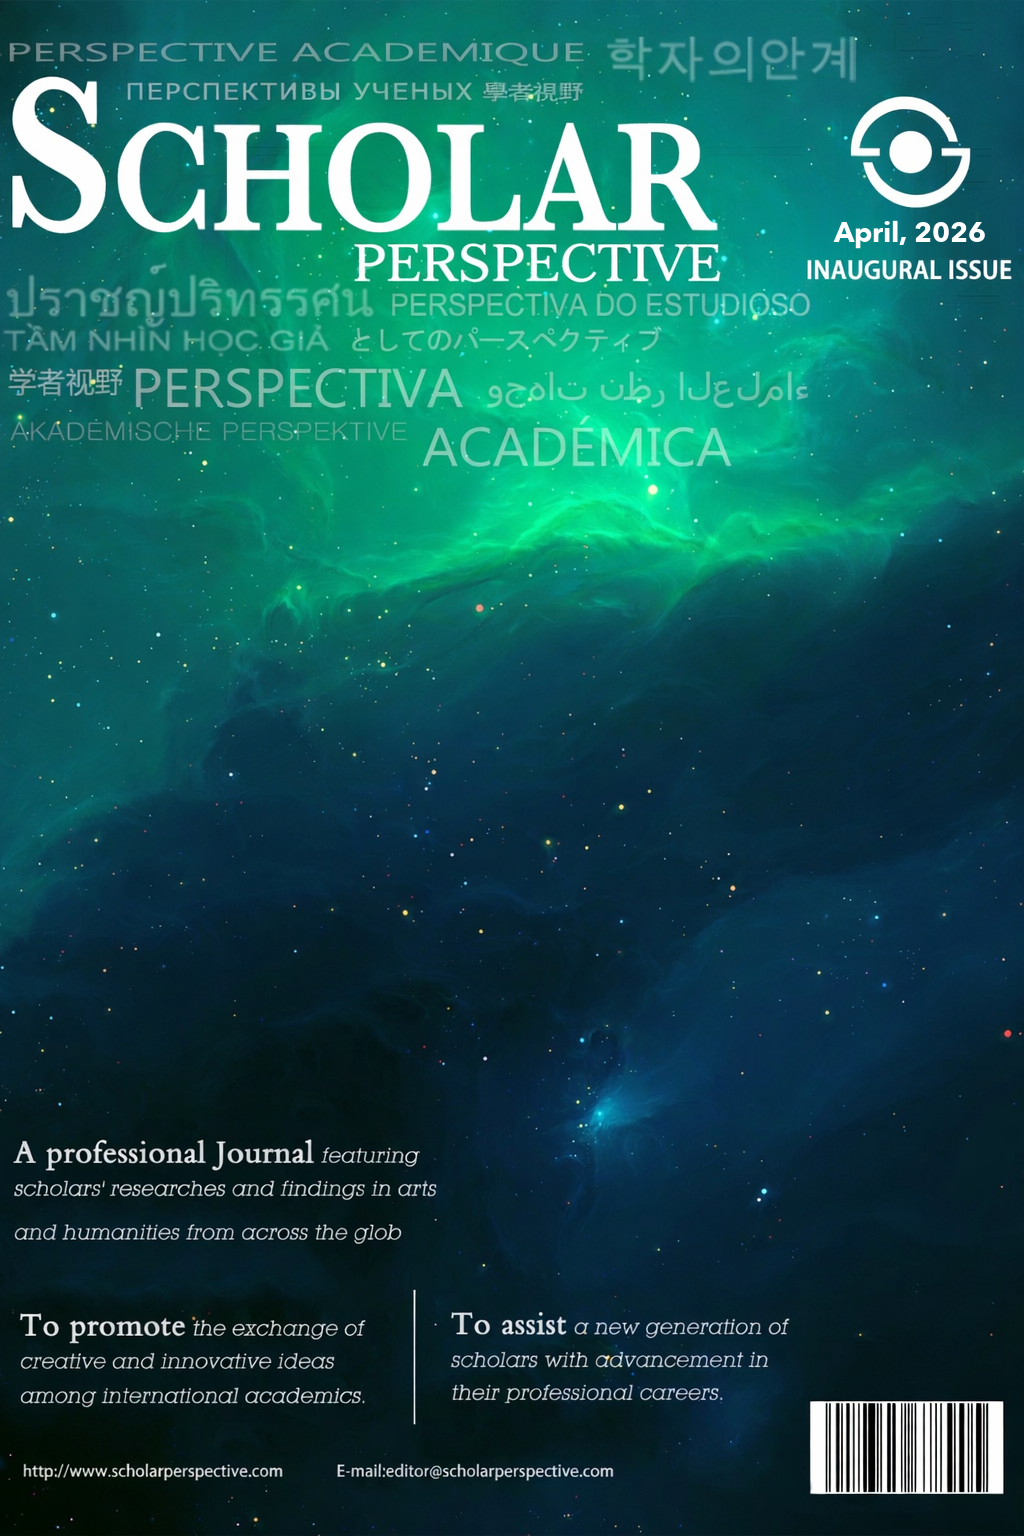
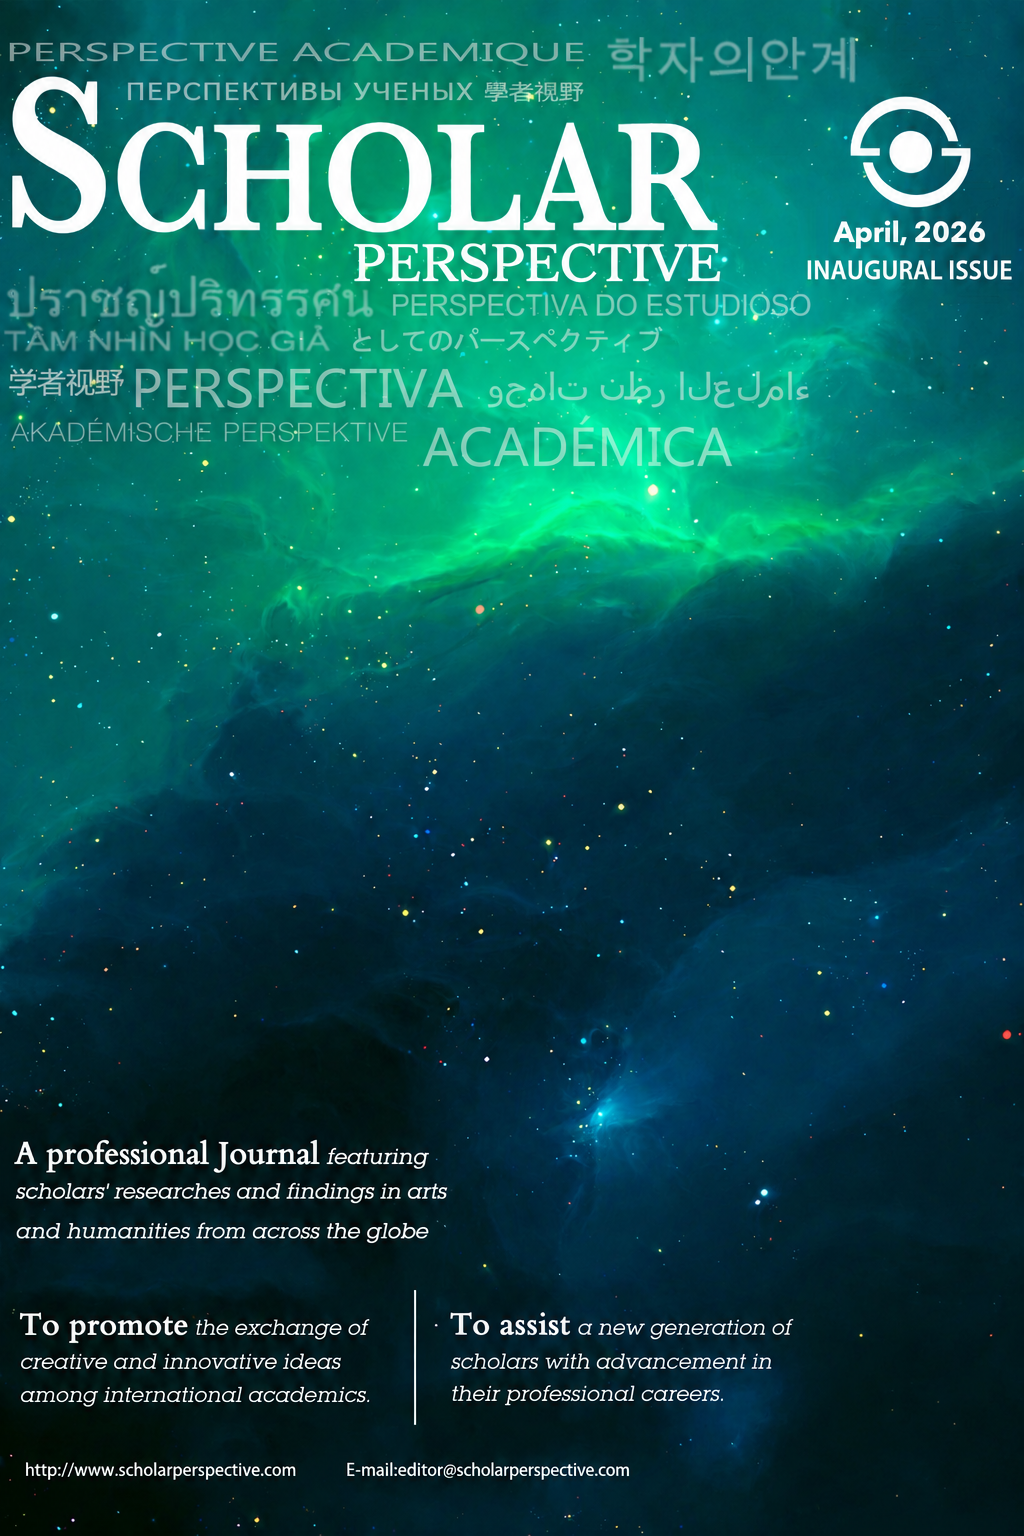
Lock journal title, add ethics policy draft, fix cover typo
- BUSINESS_PLAN: mark title "Scholar Perspective" as locked; add Google
  Search Console steps, author license-consent section (6e), and
  renumbered action checklist
- Add ETHICS_POLICY_DRAFT.md (page copy pending owner review)
- UI_REDESIGN_PLAN: use consistent "Scholar Perspective" spelling
- Cover: fix "glob" -> "globe" typo

diff --git a/BUSINESS_PLAN.md b/BUSINESS_PLAN.md
@@ -36,7 +36,7 @@ These four things are interlinked: you generally need the ISSN and the editorial
 
 **Action items:**
 - [ ] Read current U.S. ISSN Center application requirements in full (they update wording periodically)
-- [ ] Decide the exact, final title wording before applying (title changes require a NEW ISSN, so lock this in first)
+- [x] Decide the exact, final title wording before applying — **"Scholar Perspective"** (confirmed 2026-10-27)
 - [ ] Apply for online ISSN once issue #1 is stable/public
 - [ ] Once granted, add ISSN to site footer, PDF cover/masthead, and `articles.csv`/metadata
 
@@ -72,6 +72,14 @@ Different systems, different requirements, roughly ordered from "easiest / autom
   - Site isn't blocked by `robots.txt` for the article pages
   - There's a clear, crawlable path to every article (sitemap.xml helps)
 - **Open question:** Does `/publications/view/<filepath>` (the PDF.js canvas viewer) expose a real, crawlable link to the underlying PDF, or does everything render client-side in a way Google can't see? Worth checking — this is a website/metadata concern to flag for later, not something to fix today.
+
+**Concrete steps to actually get found on Google/Google Scholar:**
+- [ ] Set up a free **Google Search Console** account (search.google.com/search-console), verify site ownership, and submit a sitemap — this actively tells Google where every article page is, instead of passively waiting for a crawl
+- [ ] Confirm article PDFs contain real, selectable text (not scanned images) — Google can't read text it can't select
+- [ ] Confirm the article pages/PDFs aren't blocked in `robots.txt`
+- [ ] Wait a few weeks after publishing, then check indexing by searching `site:scholarperspective.com` (and the exact article title in quotes) on both regular Google and Google Scholar
+- [ ] Optional accelerator: if any contributing professor is willing to link to their article from their own faculty/university page, that outside link helps Google discover and trust the page faster
+- Google Scholar itself has no "submit my article" button — it only discovers content by crawling, so the above steps (making the site easy to crawl) are the only real lever available
 
 ### 4b. DOAJ — Directory of Open Access Journals (free application, real vetting)
 - The most respected free index for open-access scholarly journals. (See Section 3 above for how this differs from ISSN.)
@@ -215,12 +223,33 @@ This is its own document from the peer-review policy — DOAJ (and general good 
 - Given the humanities/liberal-arts focus (vs. empirical human-subjects research), is IRB/ethical-approval language even relevant, or should the policy stay scoped to originality/authorship/plagiarism only?
 
 **Action items:**
+- [ ] Review the draft page content in `ETHICS_POLICY_DRAFT.md` (owner review in progress) — check wording, fill in the placeholder contact email, and finalize the plagiarism-screening sentence once a tool approach is picked
+- [ ] Deploy the finalized ethics/plagiarism policy as a live page on the site once review is complete
 - [ ] Draft and publish an Editorial Policies page (peer review + ethics/plagiarism policy + author guidelines, can be one combined page)
 - [ ] Decide on a plagiarism-checking approach (manual review vs. a free tool vs. a paid tool) and state it in the policy
 - [ ] State the journal's position on COPE core practices (adopt as a reference standard)
 - [ ] Set up the review log (spreadsheet) and start using it for Issue 2 submissions
 - [ ] Collect retroactive written review confirmations from Issue 1 reviewers
 - [ ] Decide and document the conflict-of-interest rule for board-member authors
+
+---
+
+## 6e. Author Consent for the Open License (important given how manuscripts are actually collected)
+
+**Context:** Articles are not collected through an open, formal submission system — they come from the owner personally requesting manuscripts from individual professors/scholars (private outreach). This matters for licensing specifically, because it changes who needs to agree to what.
+
+**Why this is a real gap, not just paperwork:** Copyright in each article belongs to the author (the professor) by default, not to Scholar Perspective. Choosing a license like CC BY is not something the journal can decide unilaterally — it means *the author* is agreeing to let the public freely copy, redistribute, and reuse their work (with credit). If a license like CC BY is stated on the site/PDF but the author never actually agreed to that, the journal would be making a legal claim about someone else's work that was never authorized.
+
+**What this means in practice:**
+- Going forward (Issue 2 onward), when personally requesting a manuscript from a professor, include a short, plain-language line confirming the license, e.g.: *"This journal is open access; once published, your article will be made freely available under a [CC BY / CC BY-NC] license, meaning readers may [redistribute / translate / reuse with credit]. Please confirm you agree to this."* A simple email reply of agreement is enough — no formal contract needed at this scale.
+- For Issue 1 (already published without this being discussed), the same retroactive approach used for peer-review evidence applies here: reach out to each Issue 1 author now with a short confirmation request, e.g.: *"We'd like to formally offer your published article under a [CC BY] open license going forward — please confirm you're comfortable with this."*
+- If a particular author declines the open license, that specific article can simply stay "All Rights Reserved" — the license does not have to be uniform across every article, as long as each one accurately reflects what its author actually agreed to.
+
+**Action items:**
+- [ ] Draft a short, reusable "license consent" sentence to include in future manuscript requests to professors (Issue 2 onward)
+- [ ] Retroactively contact Issue 1 authors individually to confirm (or decline) the chosen open license for their article
+- [ ] For any author who doesn't consent, mark that specific article "All Rights Reserved" instead of the open license — track this per-article, not journal-wide
+- [ ] Keep a simple record of each author's consent (an email reply is sufficient) alongside the peer-review log from Section 6b
 
 ---
 
@@ -235,7 +264,7 @@ This is its own document from the peer-review policy — DOAJ (and general good 
 
 ## 8. Open Decisions Summary (things only the owner can decide)
 
-1. Final, locked title wording (blocks ISSN application)
+1. ~~Final, locked title wording~~ — **Resolved (2026-10-27):** the title is exactly **"Scholar Perspective"** (singular, no subtitle). Translated names on the cover are decorative, not parallel titles.
 2. Peer-review process — real, lightweight, or none for now (blocks DOAJ + credibility)
 3. Content license (CC BY? All rights reserved? blocks DOAJ + author expectations)
 4. **Copy-protection vs. open license conflict** — the PDF viewer's copy-protection (right-click disabled, Ctrl/Cmd+C/A/X/S/P blocked) was built under an "All Rights Reserved" mindset. A CC license (BY, BY-NC, etc.) exists specifically to grant copying/reuse rights, and CC's own terms say the licensor shouldn't apply technological measures that restrict those rights — so the two can't fully coexist as currently built. **Suggestion:** if an open CC license is adopted for DOAJ purposes, relax the in-viewer copy-blocking (at minimum allow text selection/copy) rather than keep both; if keeping the copy-protection matters more, stay with "All Rights Reserved" and treat DOAJ as not achievable under the current design. A middle option is offering a clearly unrestricted "Download PDF" button alongside a still-protected in-browser view — closer to DOAJ's "immediate free full-text access" spirit, though not a perfectly clean resolution of the license clause.
@@ -244,6 +273,7 @@ This is its own document from the peer-review policy — DOAJ (and general good 
 7. Legal entity type (nonprofit vs. LLC vs. sole prop)
 8. Budget/timeline appetite for your own paid steps (CrossRef membership, trademark, legal entity filing) — purely internal, not disclosed to or evaluated by DOAJ
 9. ~~Whether mainland China discoverability is a near-term or someday goal~~ — **Resolved:** someday/future goal, not near-term. Long-term aim is to be searchable through 论文网-style Chinese academic databases (CNKI, Wanfang, VIP/CQVIP, Baidu Scholar), pursued after ISSN/DOAJ/CrossRef are in place.
+10. **Author consent for the open license** — since manuscripts come from personal requests to professors rather than a formal submission system, each author needs to actually agree to the chosen open license before it's stated on their article (see Section 6e). This isn't optional paperwork — copyright belongs to the author by default, so the journal can't unilaterally declare an open license on their behalf.
 
 ---
 
@@ -265,19 +295,25 @@ This is its own document from the peer-review policy — DOAJ (and general good 
 A single running list, pulled from every section above, so progress on "becoming a recognized journal" can be tracked in one place. Check items off as they're done; add new ones as new questions come up.
 
 **Now (before Issue 2 goes out):**
-- [ ] Lock final title wording, exactly as it will appear everywhere
+- [x] Lock final title wording — **"Scholar Perspective"** (confirmed 2026-10-27)
 - [ ] Decide the peer-review model (who reviews, conflict-of-interest rule for board-author submissions)
 - [ ] Decide the content license (e.g., CC BY, CC BY-NC, all rights reserved)
 - [ ] Decide the plagiarism-checking approach (manual / free tool / paid tool)
 - [ ] Decide the author-facing fee model (no fees vs. APC + waiver policy) — needed for DOAJ's business-model disclosure
+- [ ] Owner review of `ETHICS_POLICY_DRAFT.md` (in progress) — finalize wording, fill in contact email placeholder
+- [ ] Deploy the finalized ethics/plagiarism policy page to the live site
 - [ ] Draft and publish an Editorial Policies page (peer review + ethics/plagiarism policy + author guidelines)
 - [ ] Set up the review log (spreadsheet) and start using it for Issue 2 submissions
 - [ ] Collect retroactive written review confirmations from Issue 1 reviewers
+- [ ] **Draft a "license consent" sentence for future manuscript requests** — since articles come from personally asking professors for their work, each one needs to actually agree to the open license before it can be stated on their article (copyright is theirs, not the journal's)
+- [ ] **Retroactively confirm license consent from Issue 1 authors** — contact each Issue 1 author to confirm (or decline) the chosen open license for their specific article; any who decline stay "All Rights Reserved" for that article only
 
 **Near-term (around/after Issue 2):**
 - [ ] Apply for the online ISSN (referencing Issue 1 as the published-issue evidence)
 - [ ] Once granted, add the ISSN to site footer, PDF cover/masthead, and `articles.csv` metadata
 - [ ] State the chosen license on every article page/PDF going forward
+- [ ] **Set up Google Search Console and submit a sitemap** — actively tells Google where article pages are, rather than waiting passively for a crawl
+- [ ] Confirm PDFs have real selectable text (not scanned images) so Google/Scholar can actually read them
 - [ ] Verify Google Scholar is actually indexing Issue 1 (`site:scholarperspective.com` search after a few weeks)
 - [ ] Check whether the PDF.js viewer route exposes a crawlable PDF link for search engines (flag for the website side of things)
 
@@ -300,26 +336,32 @@ A single running list, pulled from every section above, so progress on "becoming
 
 Same items as Section 10, but flattened into a single suggested sequence rather than grouped by timeframe — pick them off in order.
 
-- [ ] 1. Lock the final title wording, exactly as it will appear everywhere
+- [x] 1. Lock the final title wording — **"Scholar Perspective"** (confirmed 2026-10-27)
 - [ ] 2. Decide the content license (e.g., CC BY, CC BY-NC, all rights reserved)
 - [ ] 3. Decide the peer-review model (who reviews, conflict-of-interest rule for board-author submissions)
 - [ ] 4. Decide the plagiarism-checking approach (manual / free tool / paid tool)
 - [ ] 5. Decide the author-facing fee model (no fees vs. APC + waiver policy) — required DOAJ business-model disclosure
-- [ ] 6. Draft and publish an Editorial Policies page (peer review + ethics/plagiarism policy + author guidelines)
-- [ ] 7. Set up the review log (spreadsheet) and start using it for Issue 2 submissions
-- [ ] 8. Collect retroactive written review confirmations from Issue 1 reviewers
-- [ ] 9. Apply for the online ISSN (referencing Issue 1 as the published-issue evidence)
-- [ ] 10. Once granted, add the ISSN to site footer, PDF cover/masthead, and `articles.csv` metadata
-- [ ] 11. State the chosen license on every article page/PDF going forward
-- [ ] 12. Verify Google Scholar is actually indexing Issue 1 (`site:scholarperspective.com` search after a few weeks)
-- [ ] 13. Check whether the PDF.js viewer route exposes a crawlable PDF link for search engines
-- [ ] 14. Keep publishing until ~5 articles total are live
-- [ ] 15. Apply to DOAJ
-- [ ] 16. Apply to BASE / CORE
-- [ ] 17. Evaluate CrossRef DOI membership
-- [ ] 18. Decide legal entity type (nonprofit vs. LLC vs. sole proprietorship)
-- [ ] 19. Decide on trademark registration for "Scholar Perspective"
-- [ ] 20. Decide on copyright registration approach
-- [ ] 21. Pursue WorldCat/OCLC cataloging
-- [ ] 22. Reach out to EBSCOhost / ProQuest / JSTOR
-- [ ] 23. (Long-term, not near-term) Pursue 论文网-style Chinese database searchability — CNKI / Wanfang Data / VIP/CQVIP / Baidu Scholar
+- [ ] 6. Owner review of `ETHICS_POLICY_DRAFT.md` (in progress) — finalize wording, fill in contact email placeholder
+- [ ] 7. Deploy the finalized ethics/plagiarism policy page to the live site
+- [ ] 8. Draft and publish an Editorial Policies page (peer review + ethics/plagiarism policy + author guidelines)
+- [ ] 9. Set up the review log (spreadsheet) and start using it for Issue 2 submissions
+- [ ] 10. Collect retroactive written review confirmations from Issue 1 reviewers
+- [ ] 11. Draft a "license consent" sentence for future manuscript requests to professors (each author must agree to the open license — it's their copyright, not the journal's)
+- [ ] 12. Retroactively confirm license consent from each Issue 1 author (any who decline stay "All Rights Reserved" for that article only)
+- [ ] 13. Apply for the online ISSN (referencing Issue 1 as the published-issue evidence)
+- [ ] 14. Once granted, add the ISSN to site footer, PDF cover/masthead, and `articles.csv` metadata
+- [ ] 15. State the chosen license on every article page/PDF going forward
+- [ ] 16. Set up Google Search Console and submit a sitemap (actively signals Google where article pages are)
+- [ ] 17. Confirm PDFs have real selectable text (not scanned images) so crawlers can read them
+- [ ] 18. Verify Google Scholar is actually indexing Issue 1 (`site:scholarperspective.com` search after a few weeks)
+- [ ] 19. Check whether the PDF.js viewer route exposes a crawlable PDF link for search engines
+- [ ] 20. Keep publishing until ~5 articles total are live
+- [ ] 21. Apply to DOAJ
+- [ ] 22. Apply to BASE / CORE
+- [ ] 23. Evaluate CrossRef DOI membership
+- [ ] 24. Decide legal entity type (nonprofit vs. LLC vs. sole proprietorship)
+- [ ] 25. Decide on trademark registration for "Scholar Perspective"
+- [ ] 26. Decide on copyright registration approach
+- [ ] 27. Pursue WorldCat/OCLC cataloging
+- [ ] 28. Reach out to EBSCOhost / ProQuest / JSTOR
+- [ ] 29. (Long-term, not near-term) Pursue 论文网-style Chinese database searchability — CNKI / Wanfang Data / VIP/CQVIP / Baidu Scholar

diff --git a/ETHICS_POLICY_DRAFT.md b/ETHICS_POLICY_DRAFT.md
@@ -1,0 +1,47 @@
+# Draft Page Content — Academic Integrity & Publication Ethics
+
+This is a content draft for a new public page on the site (working title: "Academic Integrity & Publication Ethics" or "Ethics & Plagiarism Policy"). It's plain text/copy, ready to drop into a template later — nothing here changes the site yet. Related planning context lives in `BUSINESS_PLAN.md`, Section 6d.
+
+---
+
+## Page Copy
+
+### Academic Integrity & Publication Ethics
+
+Scholar Perspective is committed to upholding the highest standards of academic integrity and publication ethics. This page outlines the principles all authors, reviewers, and editors are expected to follow.
+
+**Originality**
+
+All submissions must represent the author's own original work. Manuscripts that have been previously published, or that are under simultaneous consideration elsewhere, will not be accepted. Authors are responsible for ensuring that all sources, data, and ideas drawn from other works are properly cited and attributed.
+
+**Plagiarism**
+
+Plagiarism in any form — including the unattributed use of another author's words, ideas, or data — is not tolerated. All submissions are reviewed for originality prior to acceptance. Manuscripts found to contain plagiarized content will be rejected, and any concerns identified after publication will be investigated and may result in a correction or retraction.
+
+**Authorship**
+
+Authorship should be limited to individuals who have made a meaningful contribution to the conception, research, or writing of the submitted work. All listed authors must agree to the final manuscript prior to submission.
+
+**Conflicts of Interest**
+
+Authors, reviewers, and editorial board members are expected to disclose any financial, personal, or professional relationships that could be perceived to influence the review or publication of a submission. Board members do not review manuscripts they have authored or co-authored.
+
+**Data and Source Integrity**
+
+Authors must accurately represent their sources and data. Fabrication, falsification, or misrepresentation of research findings is grounds for rejection or retraction.
+
+**Addressing Concerns**
+
+Any concerns regarding a potential violation of these principles — whether raised before or after publication — will be reviewed by the editorial team. Depending on the outcome, this may result in a request for revision, a published correction, or retraction of the article.
+
+Scholar Perspective follows the core practices set out by the [Committee on Publication Ethics (COPE)](https://publicationethics.org/).
+
+Questions or concerns about publication ethics can be directed to [contact info / email placeholder].
+
+---
+
+## Notes for Later
+
+- Placeholder left for a contact email/method for reporting concerns — fill in before publishing.
+- Wording is intentionally general on *how* plagiarism is screened (doesn't commit to a specific tool), since the plagiarism-checking approach (manual vs. free vs. paid tool) is still an open decision in `BUSINESS_PLAN.md` Section 8. Once that's decided, consider adding a sentence naming the method, e.g. "Submissions are checked for originality using [tool name] and editorial review."
+- This can be combined with the peer-review policy statement and author guidelines into one "Editorial Policies" page, or kept as its own standalone page — either works for DOAJ's purposes.

diff --git a/UI_REDESIGN_PLAN.md b/UI_REDESIGN_PLAN.md
@@ -1,5 +1,5 @@
 # UI Redesign Action Plan
-## ScholarPerspective - Professional Academic Journal Interface
+## Scholar Perspective - Professional Academic Journal Interface
 
 ---
 
@@ -60,7 +60,7 @@ Border:            #e1e4ed  (cool light gray)
 ```html
 <nav>
     <div class="logo">
-        <img src="..." alt="ScholarPerspective">
+        <img src="..." alt="Scholar Perspective">
         Scholar Perspective
     </div>
     <ul>
